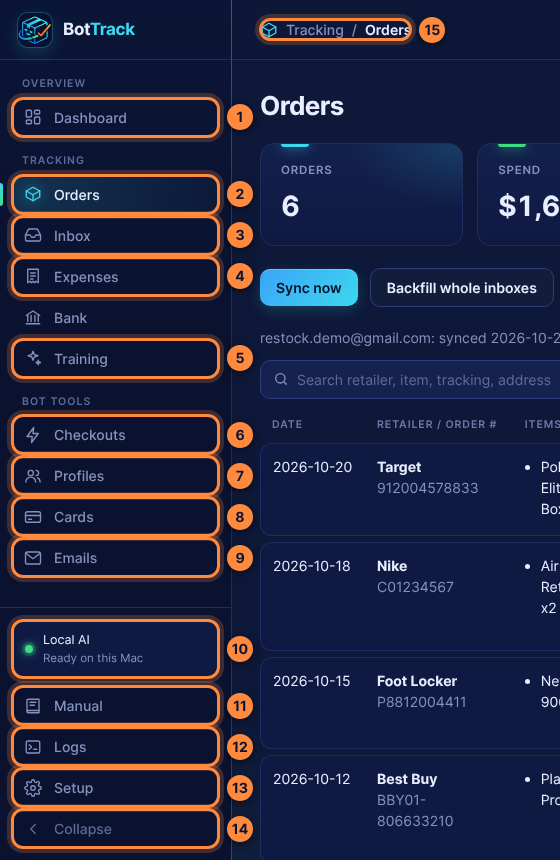
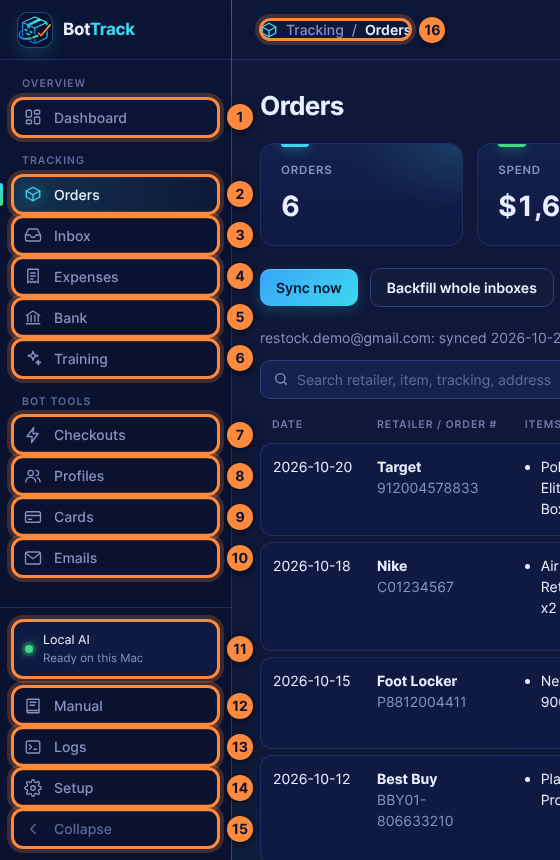
Manual: Bank & card charges chapter, Bank in the sidebar picture
The Bank chapter (statement imports, matching, Plaid) and the phone chapters only show
when the app has those pages, so the manual never describes a page that isn't there.
Its screenshots were taken from PR #4's branch.

Claude-Session: https://claude.ai/code/session_015JMPhXTT3UTxzxB63oGw74

diff --git a/jigstream/templates/manual.html b/jigstream/templates/manual.html
@@ -97,12 +97,12 @@ You can look around and set things up while it downloads; syncing starts by itse
 <h2>Finding your way around</h2>
 <p>Every page is one click away in the sidebar on the left. The page you're on is highlighted, and its name is shown at the top
 of the page. On a narrow window the sidebar hides behind the <b>☰</b> menu button at the top left.</p>
-<p>The sidebar also has a <b>Bank</b> page for importing bank and card transactions; it gets its own chapter here once it's finished.</p>
 {{ fig("nav", "The sidebar.", [
   "Dashboard: checkout totals, imports, and profiles that keep failing.",
   "Orders: every order found in your email, with tracking and status.",
   "Inbox: read your Gmail inside BotTrack and teach the AI.",
   "Expenses: what you spend on botting (proxies, bots, groups, servers).",
+  "Bank: which order or receipt each card charge paid for.",
   "Training: emails the AI learned from. Only shown while Training mode is on.",
   "Checkouts: every checkout your bots reported.",
   "Profiles: your bot profiles, groups, Mass Distribute and export.",
@@ -200,6 +200,51 @@ PayPal or whop.com, it names the actual seller.</p>
 <p>Expenses are found by the same <span class="ui">Sync now</span> as orders, and the Sync buttons are on this page too.
 If a receipt is missing, find it on <a href="#inbox">Inbox</a> and label it <b>Botting expense</b>.</p>
 </section>
+
+{% if "bank.bank_page" in pages %}<section id="bank" data-title="Bank & card charges">
+<h2>Bank &amp; card charges</h2>
+<div class="where">Sidebar → Tracking → <b>Bank</b>, or the link on Expenses</div>
+<p>Shows which order or botting receipt each charge on your cards paid for, so you can see at a glance what you've been charged for and
+spot anything that doesn't belong. Bringing charges in is free, either from statement files or straight from your bank.</p>
+{{ fig("bank", "The Bank & card charges page.", [
+  "Totals: how many charges there are, how many matched an order or a receipt, how many didn't, and the total spent.",
+  "Import statement files: pick the files you downloaded from your bank, give the account a name, and press Import.",
+  "Live bank sync: optional, pulls charges by itself every few hours. See below.",
+  "Tabs: show all charges, only matched ones, only unmatched ones, and so on.",
+  "Paid for: the order or receipt this charge belongs to. 'matched automatically' means BotTrack found it.",
+  "Match, Unmatch, Ignore or Auto-match a charge by hand."]) }}
+<h4 id="bank-import">Importing a statement</h4>
+<ol class="steps">
+<li>On your bank or card website, open the account's activity and choose <b>Download</b> or <b>Export</b>.</li>
+<li>Pick <b>CSV</b>, or <b>Quicken / QFX</b> or <b>OFX</b> if it's offered. Chase, Amex, Capital One, Citi, Discover and most other banks work.</li>
+<li>In BotTrack, choose the file (or several), type a name for the account, and press <span class="ui">Import</span>.</li>
+</ol>
+<p>Importing the same file twice adds nothing, so it's safe to download overlapping months. If the amounts come out the wrong way round,
+import again with <b>Charges show as negative</b> or <b>positive</b> chosen instead of <i>detect automatically</i>.</p>
+<h4 id="bank-matching">How charges are matched</h4>
+<p>A charge is matched when it's the same amount, to the cent, as an order or receipt dated from a week before to two days after it,
+and the store's name is in the bank's description (or it's the only one that fits). When it isn't sure, it leaves the charge for you.</p>
+<ul>
+<li><span class="ui">Match</span> opens a search of your orders and receipts so you can pick the right one.</li>
+<li><span class="ui">Ignore</span> is for charges that have nothing to do with botting, like groceries or rent.</li>
+<li><b>Or add it as a botting expense</b> (in the Match window) is for a proxy, bot or server charge that never sent an email receipt.</li>
+<li><span class="ui">Match again</span> re-checks every charge you haven't decided yourself.</li>
+</ul>
+<div class="tip">A choice you make by hand is never undone by a later import or sync.</div>
+<h4 id="bank-plaid">Live bank sync with Plaid (optional)</h4>
+<p>Instead of downloading files, BotTrack can read charges from your bank by itself through Plaid, the service most finance apps use.
+You make your own free Plaid account, and you sign in to your bank in Plaid's window, so BotTrack never sees your bank password.
+Setting it up takes about 10 minutes.</p>
+<ol class="steps">
+<li>On the Bank page press <span class="ui">Set up live sync →</span>.</li>
+<li>Create a free account at <b>dashboard.plaid.com</b>, open <b>Developers → Keys</b>, and copy the <b>client_id</b> and the <b>Sandbox</b> secret.</li>
+<li>Paste them in, keep <b>Sandbox</b> chosen and press <span class="ui">Save</span>. Try it with Plaid's test bank: username <b>user_good</b>, password <b>pass_good</b>.</li>
+<li>For your real bank, ask for <b>Production</b> access in the Plaid dashboard. Once it's approved, paste the Production secret with Production chosen, then press <span class="ui">Link a bank</span>.</li>
+</ol>
+{{ fig("bank-plaid", "The Plaid setup page.", ["Step 1: the instructions for getting your free keys, and where to paste them.", "Sandbox for the test bank, Production for your real bank."]) }}
+<p>The first pull brings in the last two years of charges, then new ones every few hours. Pending charges wait until they post.
+Your Plaid keys and bank link are stored encrypted on this Mac.</p>
+</section>{% endif %}
 
 <section id="checkouts" data-title="Checkouts">
 <h2>Checkouts</h2>
@@ -355,15 +400,15 @@ each one agreed with you and how many seconds each email took. You need at least
   "Make default: use that model from now on."]) }}
 <div class="warn">Models you haven't downloaded are fetched first (4B about 2.5 GB, 8B about 5 GB, 14B about 9 GB). Ones you don't keep are removed the next time BotTrack opens.</div>
 
-<h4 id="setup-phone">Phone access</h4>
+{% if "mobile.orders" in pages %}<h4 id="setup-phone">Phone access</h4>
 <p>Lets your iPhone or Android phone see and edit orders, expenses and profiles. See <a href="#phone">Using BotTrack on your phone</a>.</p>
 {{ fig("setup-phone", "Setup → Phone access.", [
   "Let my phones connect: turn phone access on or off.",
   "The email and password your phone signs in with (10 or more characters).",
-  "Also allow phones on the same Wi-Fi without Tailscale. Less private, because Wi-Fi traffic isn't encrypted."]) }}
+  "Also allow phones on the same Wi-Fi without Tailscale. Less private, because Wi-Fi traffic isn't encrypted."]) }}{% endif %}
 </section>
 
-<section id="phone" data-title="Using BotTrack on your phone">
+{% if "mobile.orders" in pages %}<section id="phone" data-title="Using BotTrack on your phone">
 <h2>Using BotTrack on your phone <span class="tag">iPhone &amp; Android</span></h2>
 <p>Your phone talks straight to BotTrack on your Mac, so nothing goes through anyone's server and it's free. It only works while BotTrack
 is open on the Mac.</p>
@@ -378,7 +423,7 @@ is open on the Mac.</p>
 {{ fig("phone-expenses", "Expenses on the phone.", phone=True) }}
 {{ fig("phone-profiles", "Profiles on the phone.", phone=True) }}
 <div class="warn">Phones stay signed in for 30 days. Changing the password signs every phone out. Setup, Logs and updates can only be opened on the Mac.</div>
-</section>
+</section>{% endif %}
 
 <section id="training" data-title="Training">
 <h2>Training</h2>

diff --git a/tools/manual_screenshots.py b/tools/manual_screenshots.py
@@ -123,6 +123,14 @@ def seed(path):
     emailbook.add(c, "Gmail dots", [f"alex.rivera+{n}@example.com" for n in range(1, 7)])
     emailbook.add(c, "Catchall", [f"drop{n}@demo-catchall.com" for n in range(1, 5)])
     c.commit()
+    if has_module("bank"):  # the Bank page, once it's in the app
+        from jigstream import bank
+        rows = ["Transaction Date,Description,Amount", "10/18/2026,NIKE.COM ORDER,-360.00",
+                "10/19/2026,OCULUS PROXIES,-75.00", "10/15/2026,FOOT LOCKER 0412,-149.99",
+                "10/12/2026,BEST BUY 00012345,-699.99", "10/20/2026,TARGET.COM,-219.96",
+                "10/02/2026,VULTR HOLDINGS,-24.00", "10/14/2026,HEB GROCERY,-86.41", "10/16/2026,DIGITALOCEAN,-12.00"]
+        bank.import_file(c, "activity.csv", "\n".join(rows).encode(), "Chase Sapphire 1234")
+        bank.auto_match(c)
     logs = WORK / "logs"
     logs.mkdir(exist_ok=True)
     (logs / "app.log").write_text(
@@ -265,9 +273,17 @@ def update_reset(app):
     updater.state.update({"available": False, "message": ""})
 
 
-def has_phone():
+def has_module(name):
     import importlib.util
-    return importlib.util.find_spec("jigstream.mobile") is not None
+    return importlib.util.find_spec(f"jigstream.{name}") is not None
+
+
+def has_phone():
+    return has_module("mobile")
+
+
+def has_bank():
+    return has_module("bank")
 
 
 def phone_login(page):
@@ -288,10 +304,10 @@ def phone_login(page):
 
 TOP = {"x": 0, "y": 0, "width": 1360, "height": 150}
 shot("nav", "/orders", [(".side a.it[href='/']", 1), (".side a[href='/orders']", 2), (".side a[href='/inbox']", 3),
-                        (".side a[href='/expenses']", 4), (".side a[href='/training']", 5), (".side a[href='/checkouts']", 6),
-                        (".side a[href='/profiles']", 7), (".side a[href='/cards']", 8), (".side a[href='/emails']", 9),
-                        (".aicard", 10), (".side a[href='/manual']", 11), (".side a[href='/logs']", 12),
-                        (".side a[href='/setup']", 13), (".collapse", 14), (".crumb", 15)],
+                        (".side a[href='/expenses']", 4), (".side a[href='/bank']", 5), (".side a[href='/training']", 6),
+                        (".side a[href='/checkouts']", 7), (".side a[href='/profiles']", 8), (".side a[href='/cards']", 9),
+                        (".side a[href='/emails']", 10), (".aicard", 11), (".side a[href='/manual']", 12),
+                        (".side a[href='/logs']", 13), (".side a[href='/setup']", 14), (".collapse", 15), (".crumb", 16)],
      tight=True, clip={"x": 0, "y": 0, "width": 560, "height": 860})
 shot("ai-banner", "/orders", [("#aibar", 1)], server=ai_loading, reset=lambda app: app.config.pop("AI_STATE", None), clip=TOP)
 shot("update-banner", "/orders", [(".top .chip.upd", 1), (".banner button", 2)], server=update_ready, reset=update_reset, clip=TOP)
@@ -345,6 +361,10 @@ shot("setup-compare", "/setup", [("form[action='/setup/compare']", 1), ("td@Best
 shot("training", "/training", [("a[href='/training/export'] button", 1), ("tbody tr td:nth-child(2)", 2),
                                ("tbody tr td:nth-child(3)", 3), ("tbody tr button.danger", 4)])
 shot("logs", "/logs", [("main > p:nth-of-type(2) a", 1), ("a[href='/logs/download'] button", 2), ("main pre", 3)])
+shot("bank", "/bank", [(".stats", 1), ("form[action='/bank/import']", 2), ("a[href='/bank/plaid']", 3),
+                       (".tabs", 4), ("tbody tr td:nth-child(5)", 5), ("tbody tr .acts", 6)],
+     viewport={"width": 1360, "height": 1200}, needs=has_bank)
+shot("bank-plaid", "/bank/plaid", [(".panel:has(select[name=env])", 1), ("select[name=env]", 2)], needs=has_bank)
 shot("setup-phone", "/setup", [("input[name=on]", 1), ("input[name=email][type=email]", 2),
                                ("input[name=allow_lan]", 3)], scroll="h3@Phone access", needs=has_phone)
 shot("phone-login", "/m/login", phone=True, needs=has_phone)

diff --git a/jigstream/manual.py b/jigstream/manual.py
@@ -1,11 +1,12 @@
 """The Manual page: a plain-language guide to every page, with annotated screenshots.
 
 The screenshots in static/manual/ come from tools/manual_screenshots.py, which runs the app on
-made-up sample data. A figure whose image hasn't been taken yet is simply left out.
+made-up sample data. A figure whose image hasn't been taken yet is simply left out, and so is a
+chapter about a page this copy of the app doesn't have (Bank, phone access).
 """
 from pathlib import Path
 
-from flask import Blueprint, render_template
+from flask import Blueprint, current_app, render_template
 
 bp = Blueprint("manual", __name__)
 SHOTS = Path(__file__).parent / "static" / "manual"
@@ -13,4 +14,5 @@ SHOTS = Path(__file__).parent / "static" / "manual"
 
 @bp.get("/manual")
 def manual():
-    return render_template("manual.html", shots={p.stem for p in SHOTS.glob("*.png")})
+    return render_template("manual.html", shots={p.stem for p in SHOTS.glob("*.png")},
+                           pages=set(current_app.view_functions))

diff --git a/tests/test_manual.py b/tests/test_manual.py
@@ -12,8 +12,9 @@ def test_manual_page_covers_every_tab_and_its_pictures_exist(tmp_path, monkeypat
     assert 'href="/manual"' in html
     for section in ["start", "dashboard", "orders", "inbox", "expenses", "checkouts", "profiles", "mass-distribute",
                     "cards", "emails", "setup", "setup-updates", "setup-inboxes", "setup-discord", "setup-compare",
-                    "phone", "training", "logs", "faq"]:
+                    "training", "logs", "faq"]:
         assert f'id="{section}"' in html, section
+    assert 'id="phone"' not in html  # chapters for pages this app doesn't have yet are left out
     images = re.findall(r'src="/static/(manual/[^"]+)"', html)
     assert len(images) >= 20
     assert all((STATIC / i).is_file() for i in images)
